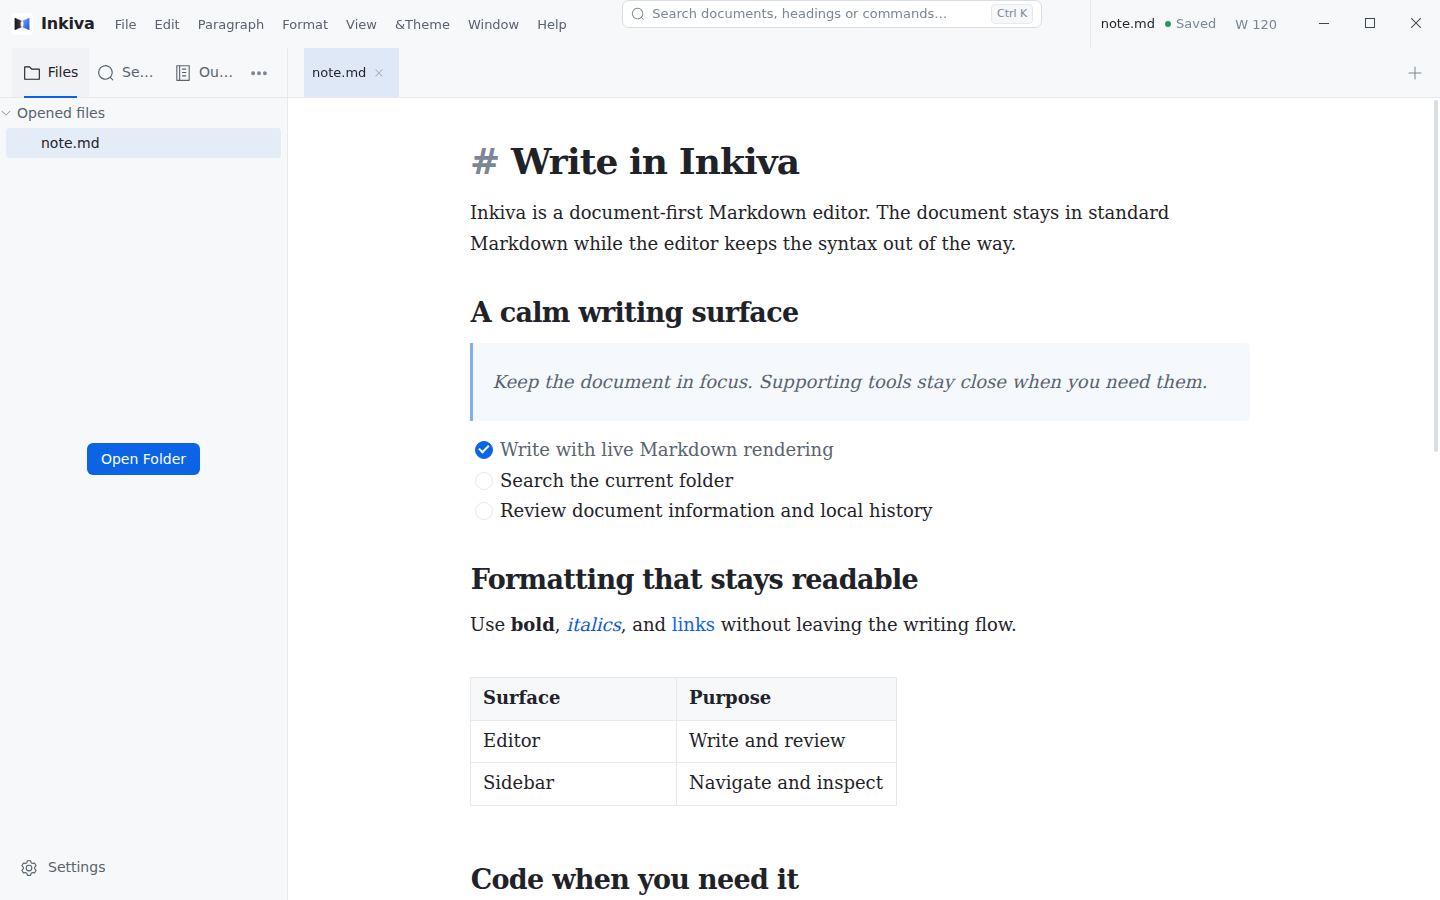
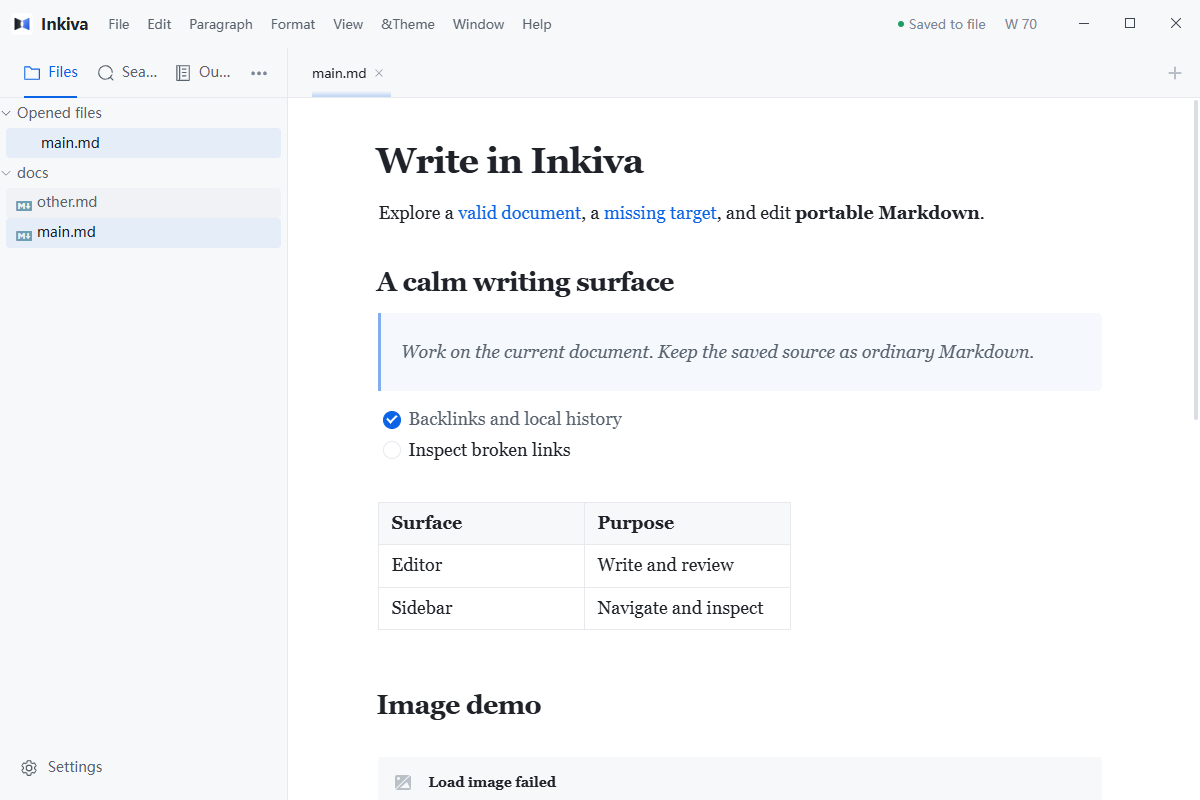
docs: replace verified stale v0.6 screenshots and record issue 276 evidence

diff --git a/docs/engineering/ISSUE-276-DESKTOP-SCREENSHOT-AUDIT.md b/docs/engineering/ISSUE-276-DESKTOP-SCREENSHOT-AUDIT.md
@@ -1,0 +1,58 @@
+# Issue #276 — v0.6.0 real-desktop screenshot and interaction audit
+
+- Audit date: 2026-10-30
+- Issue: [#276](https://github.com/Bulls1986/Inkiva/issues/276)
+- Status: **partial visual verification and proven-stale screenshot repair; DO NOT close issue until the remaining acceptance items pass**
+- Target source branch: `develop@d84828bd760b9672c1b85afc39f0887c66456ef7`
+- Reviewed desktop platform: Windows x64, English UI (isolated `preferences.json` language `en-US`), real installed Inkiva **v0.6.0** executable.
[2 lines of base64/hex data omitted]
+- Official v0.6.0 Git tag commit: `a01799457582a30a84a3a23d4dcdf84de29c53cb` (repository reference, **not** claimed as embedded provenance of the installed executable).
+- Capture: **Playwright `_electron.launch` against the actual installed `inkiva.exe`**, not browser imitation. Temporary per-test profile and Markdown fixture files under the Windows user's OS temporary directory, separate from the user's real application profile.
+- Captures: WebContents screenshots, **1200×800** for the editing window and **950×650** for Preferences. Selected guide assets `inkiva-interface.png` and `inkiva-document-info.png` are cropped vertically to 680 px to exclude unrelated test-fixture content; no interface elements, states or text were synthesized or retouched.
+
+## Historical comparison and actual captures
+
+The original `inkiva-interface.png` and `inkiva-document-info.png` screenshots were created before the v0.6 editing/navigation work. Both show an obsolete top titlebar search field. The original Document Info image also lacks the current **Broken Markdown Links** subsection. These changes were verified by comparing the old repository screenshots with real v0.6.0 captures.
+
+Updated/replaced only the verified screenshots:
+
+| Path under `packages/website/public/docs/assets/` | Real source frame | Result |
+| --- | --- | --- |
+| `inkiva-interface.png` | isolated v0.6.0 English editor / Outline | updated (old titlebar no longer matches) |
+| `inkiva-files.png` | folder opened and `main.md` selected | updated (folder tree/tab are now current) |
+| `inkiva-document-info.png` | indexed workspace, `Backlinks`, `Broken Markdown Links` and `Local History` | updated (missing subsection in old image) |
+| `inkiva-settings.png` | real Preferences / General window | updated from actual current window |
+| `inkiva-broken-link-repair.png` | user clicked visible Repair; genuine `Insert link` dialog | added |
+| `inkiva-table-context.png` | actual right-click on Markdown table cell | added |
+| `inkiva-table-hardbreak.png` | actual in-editor result after Shift+Enter, **not a disk-save claim** | added |
+
+Guide wording in English and Simplified Chinese was adjusted to reflect observable UI: the clickable broken-link row has the accessible action **Locate source occurrence** and no separate visible **Locate** label; a visible **Repair** button launches the **Insert link** dialog with explicit Cancel/OK.
+
+## Executed interaction evidence
+
+1. **Packaged app launch:** actual installed Windows `inkiva.exe` reports `package.json.version=0.6.0`; started from separate temporary profile. Opened arbitrary Markdown files via CLI without editing the user's own documents; Playwright `firstWindow` returned the real `file://.../app.asar/out/renderer` Electron window.
+2. **Files / Outline / Search / Settings:** clicked actual sidebar buttons and captured the resulting WebContents. Settings opened a separate Inkiva Preferences window; captured actual General/Auto Save UI. Search was visited, but a meaningful search-result state has **not** been claimed.
+3. **Indexed Backlinks and broken links:** opening a folder (not merely a single document) and then its Markdown file produced a real backlink from `other.md` and a missing link `./nonexistent.md · Missing file`. This demonstrates that the workspace context matters; a single-file run showed the explicit **partial/unverified** state instead of a false complete scan. Clicked the row's **Locate source occurrence** action then the **Repair** button, which opened **Insert link / Destination / Cancel / OK**. No repair was confirmed; no unreviewed file mutation was made.
+4. **Table context and hard break:** actual right-click displayed **Insert Row Above**, **Insert Row Below**, **Insert Column Left**, **Insert Column right**, **Delete Row**, **Delete Column**, **Delete Table**. `Shift+Enter` rendered `A<br>` followed by a second line. Playwright DOM selection still had a connected text anchor, and its caret rectangle was `x=498.58, y=261.39, width=0, height=21` in that capture. This is **editor-state evidence**, not full save/reopen/round-trip correctness proof.
+5. **Save-state limitation:** after the table edit, the application displayed **Protected in Inkiva only**, and an immediately inspected disk fixture still had its previous content. Therefore **do not claim the hard-break edit persisted on disk**. A later package E2E may qualify persistence separately.
+6. **Missing-image state:** an image pointing to a nonexistent file displayed **Load Image Failed** in the real editor. The Choose Image failure/relink/retry workflow was **not exercised to completion**, so failure feedback and no-placeholder correctness remain unverified here.
+7. **Command palette / export:** attempted the published `Ctrl+Shift+P` shortcut while focus was in Document Info; the before/after screenshot did not change. Do not infer the launcher is broken from this inconclusive focus-dependent run. The Export dialog was not opened in this stage.
+8. **Virtualized Outline >300 headings:** a dedicated automation run was prepared, but the tool execution was blocked before starting. **No genuine >300-heading keyboard/viewport result is claimed**; previous source/E2E records do not replace this required screenshot acceptance.
+9. **macOS differences:** no macOS machine was used, so command-modifier and native menu differences remain to be reviewed. The Issue accepts Windows and/or macOS capture for primary screenshots, not fabricated macOS evidence.
+
+## Remaining acceptance / handoff
+
+Issue #276 **must remain open** until the following are substantiated with real application results:
+
+- Revalidate the actual command launcher and Export UI and replace their screenshots only if proven stale.
+- Inspect the Settings/Export and other surviving website assets not yet compared against a current UI.
+- Complete a genuinely executed >300-heading virtual Outline keyboard focus/navigation/scroll ownership check.
+- Complete missing-image relink/failure/retry and show no stranded loading placeholder.
+- Verify table Shift+Enter **saved and reopened** with caret behavior, distinguish disk save from recovery-only status.
+- Verify the target platform modifier labels (Windows here; macOS when available), and reconcile Chinese/English guide captions.
+- Run final **52-page documentation gate**, website test/build, full applicable PR CI and post-merge website deployment. Record exact head/merge/deploy results before calling this PR merged.
+
+## Audit and learning notes
+
+Don't infer fidelity from the presence of PNG files or a green build. The old screenshots preserved a now-removed top search field and omitted broken-document-link diagnostics. Always test link/backlink panels with a genuinely opened folder, otherwise partial results can be mistaken for a product defect. The document save-status indicator has independent semantics: **Protected in Inkiva only** is not a disk write. Keep source Markdown, capture conditions, screenshots and exact observed UI labels tied to the installed binary hash. Do not make a mockup or an AI-generated screenshot and call it an Electron capture.

diff --git a/packages/website/content/docs/end-user/EDITING.md b/packages/website/content/docs/end-user/EDITING.md
@@ -32,6 +32,12 @@ The editor can close brackets, quotes, and Markdown delimiters as you type. Thes
 
 Use the quick-insert menu or **Paragraph → Table** to create a Markdown table. Edit its cells directly; use the context menu or the table controls for deliberate row/column operations and alignment. Inkiva is a Markdown editor, not a spreadsheet: selecting content and deleting it is not an implicit request to remove rows or columns. The built-in table editing behavior preserves standard Markdown, Undo/Redo and Source/WYSIWYG round-trips. If you need a hard line break inside a cell, use <kbd>Shift</kbd>+<kbd>Enter</kbd>; the saved Markdown uses an HTML `<br>` break.
 
+![Actual Windows v0.6.0 table-cell context menu showing explicit row/column actions](../assets/inkiva-table-context.png)
+
+The following screenshot captures the live editor immediately after a hard break; **it is not evidence of a completed disk save**. Save and verify the file when testing document persistence.
+
+![Actual Windows v0.6.0 table cell immediately after Shift+Enter with an in-editor hard break and visible caret](../assets/inkiva-table-hardbreak.png)
+
 ## Images
 
 Insert standard Markdown images with `![]()`, the image command, drag/drop or paste. Depending on **Preferences → Image**, you can keep a local path, copy assets to a relative folder, or use an optional [PicGo uploader](IMAGE_UPLOADER_CONFIGRATION.md). Existing image controls support replacement/relink, alt/title editing and drag resizing. If an import or replacement fails, the original Markdown should remain available for correction or retry. See [Image support](IMAGES.md) for the complete placement and recovery behavior.
@@ -42,7 +48,7 @@ Insert standard Markdown images with `![]()`, the image command, drag/drop or pa
 
 **Navigate:** an ordinary click in an editable link places the caret; it does not automatically follow the destination. To open the link, use <kbd>Ctrl</kbd>+click on Windows or <kbd>Command</kbd>+click on macOS, or the link tool's explicit jump action. A standard relative `.md` or `.markdown` link may include a heading fragment, for example `[Plan](./plan.md#milestones)`. External URLs retain their separate guarded-open behavior.
 
-**Inspect and repair:** open **More → Document Info** to inspect **Backlinks** and broken local document links. Select a backlink to visit its exact source occurrence. For a missing document target, first choose **Locate** to inspect the source, then **Repair** to select a replacement using the link dialog; **Undo** reverses a completed single-document repair. A cancelled repair, inaccessible file or outdated index result must not silently change a Markdown file.
+**Inspect and repair:** open **More → Document Info** to inspect **Backlinks** and broken local document links. Select a backlink to visit its exact source occurrence. For a missing document target, click its row to **locate the source occurrence** (accessible label **Locate source occurrence**), then click the visible **Repair** button to open the **Insert link** dialog. **Cancel** is non-mutating; **Undo** reverses a completed single-document repair. A cancelled repair, inaccessible file or outdated index result must not silently change a Markdown file.
 
 **Rename or move:** file operations and link repair are separate decisions. If Inkiva offers a preview of affected references, review the listed paths and choose **Update**, **Keep unchanged**, or **Cancel**. Keeping or cancelling link repair does **not** roll back a move that already succeeded. Work across multiple files may produce partial results; inspect any reported recovery/conflict details rather than assuming one editor Undo reverses every disk operation.
 

diff --git a/packages/website/content/docs/end-user/BASICS.md b/packages/website/content/docs/end-user/BASICS.md
@@ -17,11 +17,11 @@ The optional sidebar is organized around the current document and folder:
 - **Files** shows the opened folder tree and its **Opened Files** subsection.
 - **Search** searches the opened folder with filters for the search mode.
 - **Outline** shows headings from the selected document.
-- **More → Document Info** provides **Backlinks** and **Local History**.
+- **More → Document Info** provides **Backlinks**, **Broken Markdown Links**, and **Local History**. The More control is an icon with the accessible name **Backlinks and Local History** on the Windows v0.6.0 UI.
 
 Use the sidebar controls or **View → Toggle Sidebar**. The default Typora shortcut is <kbd>CmdOrCtrl</kbd>+<kbd>Shift</kbd>+<kbd>L</kbd>; custom keybinding styles can change it. The `openedFilesInSidebar` preference controls the Opened Files subsection.
 
-![Inkiva editor with the Outline sidebar, document tab, and writing surface](../assets/inkiva-interface.png)
+![Actual Windows v0.6.0 Inkiva editor with the Outline sidebar, document tab, and Markdown writing surface](../assets/inkiva-interface.png)
 
 The Files, Search, and Document Info panels are shown below.
 
@@ -29,7 +29,7 @@ The Files, Search, and Document Info panels are shown below.
 
 ![Inkiva Search sidebar for searching the opened folder](../assets/inkiva-search.png)
 
-![Inkiva Document Info sidebar with Backlinks and Local History](../assets/inkiva-document-info.png)
+![Actual Windows v0.6.0 Document Info sidebar showing a backlink, a missing Markdown target and Local History](../assets/inkiva-document-info.png)
 
 ### Tabs and split view
 
@@ -76,8 +76,10 @@ A regular click within a link keeps you in editing mode. To **follow** it delibe
 Open the **More → Document Info** sidebar for the active document:
 
 - **Backlinks** shows other Markdown documents that link here, including saved workspace files not currently open in tabs. Choosing a backlink goes to its source link occurrence.
-- **Broken local links** reports missing relative `.md`/`.markdown` file targets in the checked workspace scope. A missing file and a file that cannot be verified (for example, due to permissions or partial indexing) are different states.
-- Use **Locate** to inspect the original link in its document; use **Repair** only when you deliberately want to select a replacement through the existing link-editing flow. Cancelling a repair leaves the Markdown unchanged.
+- **Broken Markdown Links** reports missing relative `.md`/`.markdown` file targets in the checked workspace scope. A missing file and a file that cannot be verified (for example, due to permissions or partial indexing) are different states.
+- Click the broken-link entry to locate its source occurrence (accessible name **Locate source occurrence**); this is not a separate text-labeled Locate button. Click the visible **Repair** button to open the standard **Insert link** confirmation dialog. The dialog does not silently replace the target; **Cancel** leaves the Markdown unchanged.
+
+![Actual Windows v0.6.0 Insert link confirmation dialog opened from a broken link's Repair button](../assets/inkiva-broken-link-repair.png)
 
 Results depend on the selected folder and the index's current state. An incomplete/unreadable scan is not proof that there are no links or no problems. External websites, image references, reference-style links, and missing heading fragments are **not** classified as broken files by this workspace report.
 

diff --git a/docs/engineering/README.md b/docs/engineering/README.md
@@ -17,6 +17,7 @@ This directory contains cross-cutting engineering audits and evidence records. O
 - [D04 — User guide modernization](DOCS-04-USER-GUIDES.md) — merged v0.6 links, images, tables and recovery workflows; screenshot review handoff.
 - [D06 — Public documentation quality gate](DOCS-06-DOCS-QUALITY-GATE.md) — merged and deployed link/anchor/asset verification with 9 targeted tests and 11/11 PR CI.
 - [D05 — Chinese user documentation](DOCS-05-CHINESE-DOCS.md) — Chinese user routes, source/navigation parity, localization/SEO gates and legacy translation disposition.
+- [Issue #276 — Windows v0.6.0 screenshot and interaction review](ISSUE-276-DESKTOP-SCREENSHOT-AUDIT.md) — genuine packaged Electron capture evidence, refreshed/stale assets, partial acceptance and remaining visual/manual qualifications.
 - [GEO-01 — Public baseline audit](GEO-01-PUBLIC-BASELINE-AUDIT.md)
 - [GEO-02 — AI discovery baseline](GEO-02-AI-DISCOVERY-BASELINE.md)
 - [GEO-03 — Entity content implementation](GEO-03-ENTITY-CONTENT-IMPLEMENTATION.md)
